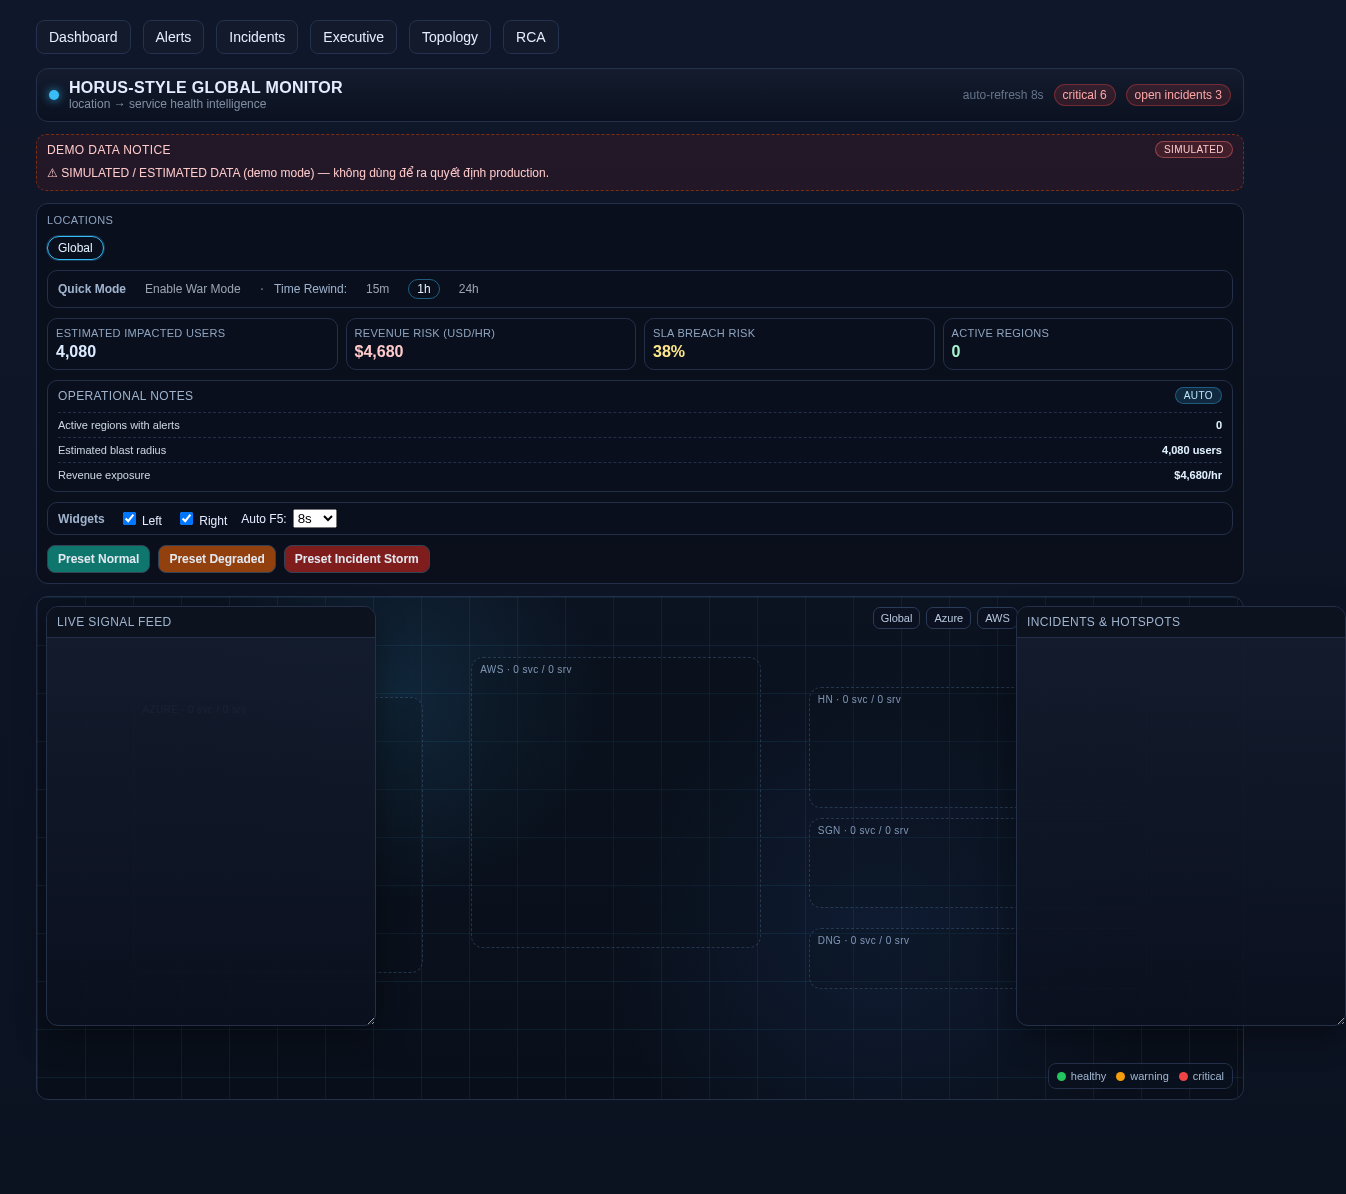
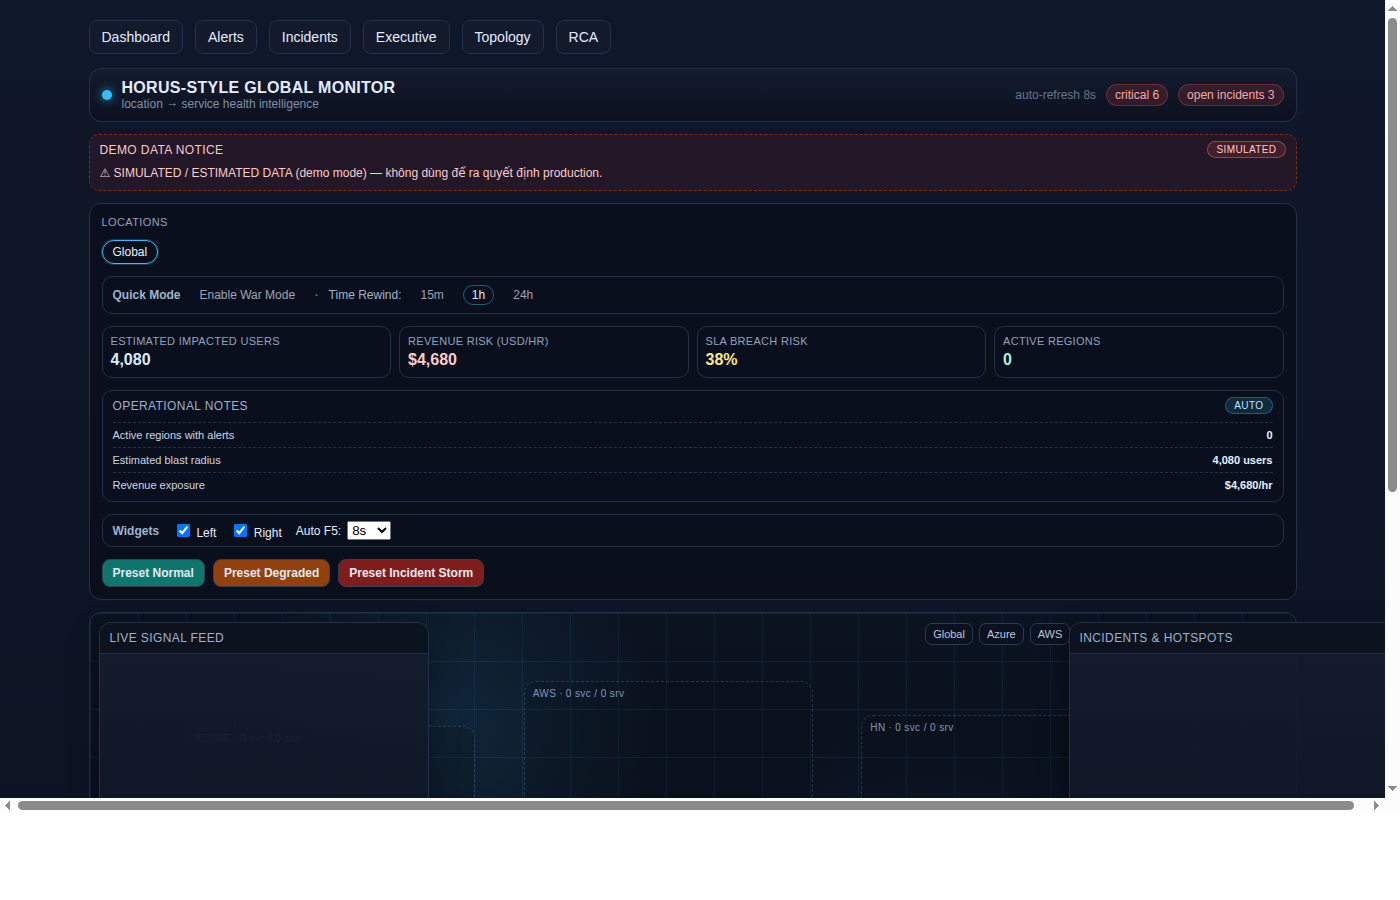
Refine home control stack spacing

diff --git a/worldmonitor-hybrid/web/app/home.module.css b/worldmonitor-hybrid/web/app/home.module.css
@@ -5,8 +5,8 @@
 
 .controlStack {
   display: grid;
-  gap: 10px;
-  padding: 10px;
+  gap: 12px;
+  padding: 12px;
   border: 1px solid #243049;
   border-radius: 12px;
   background: rgba(8, 12, 22, 0.6);

diff --git a/worldmonitor-hybrid/CHANGELOG.md b/worldmonitor-hybrid/CHANGELOG.md
@@ -47,6 +47,7 @@
 - Home: tăng khoảng cách trong KPI cards để nhãn/giá trị dễ quét hơn.
 - Home: KPI label uppercase + số dùng tabular-nums để quét nhanh và thẳng hàng.
 - Home: gom khối filter/quick/KPI vào control stack có viền nền để bố cục sạch, dễ scan hơn.
+- Home: tăng padding/gap trong control stack để các khối dễ thở và scan nhanh hơn.
 - Home data flow: harden dữ liệu incidents/alerts/topology nodes bằng `ensureArray` trước khi slice/sort để tránh vỡ trang khi API trả về sai kiểu tạm thời.
 - Home data flow: chuẩn hoá `summary.open_alerts/open_incidents` về số an toàn (fallback 0) để tránh NaN KPI khi API tạm trả string/null.
 - Home data flow: chuẩn hoá `topology.nodes[].open_alerts/open_incidents` về số an toàn khi tính hotspot + active regions để tránh lệch ranking/count nếu API trả string/null.
